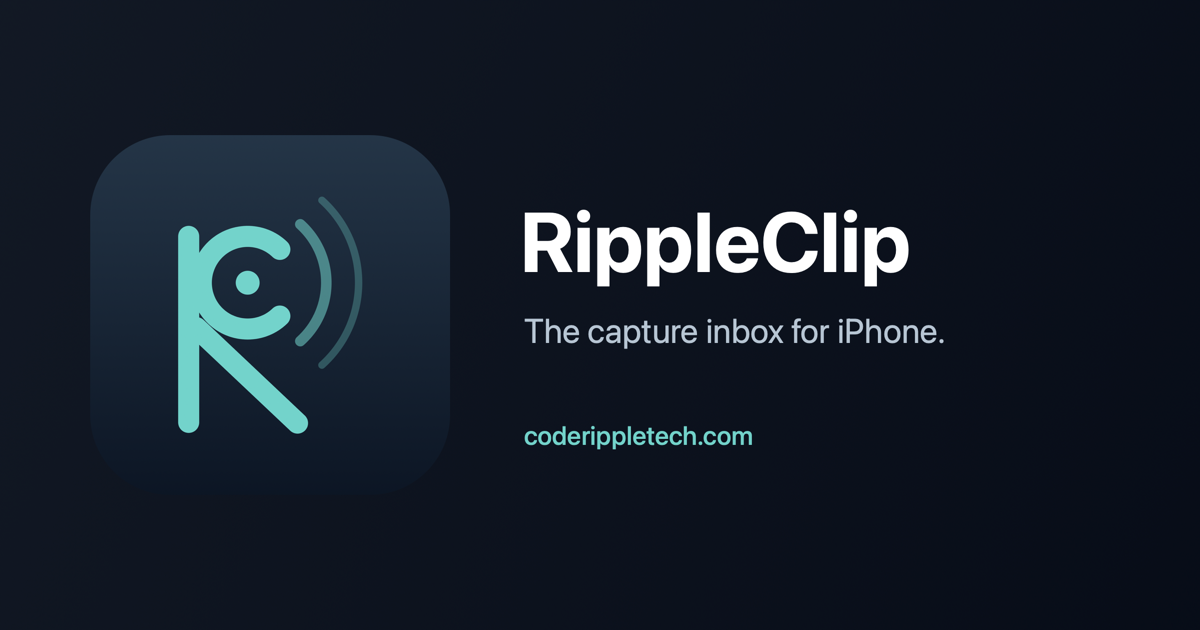
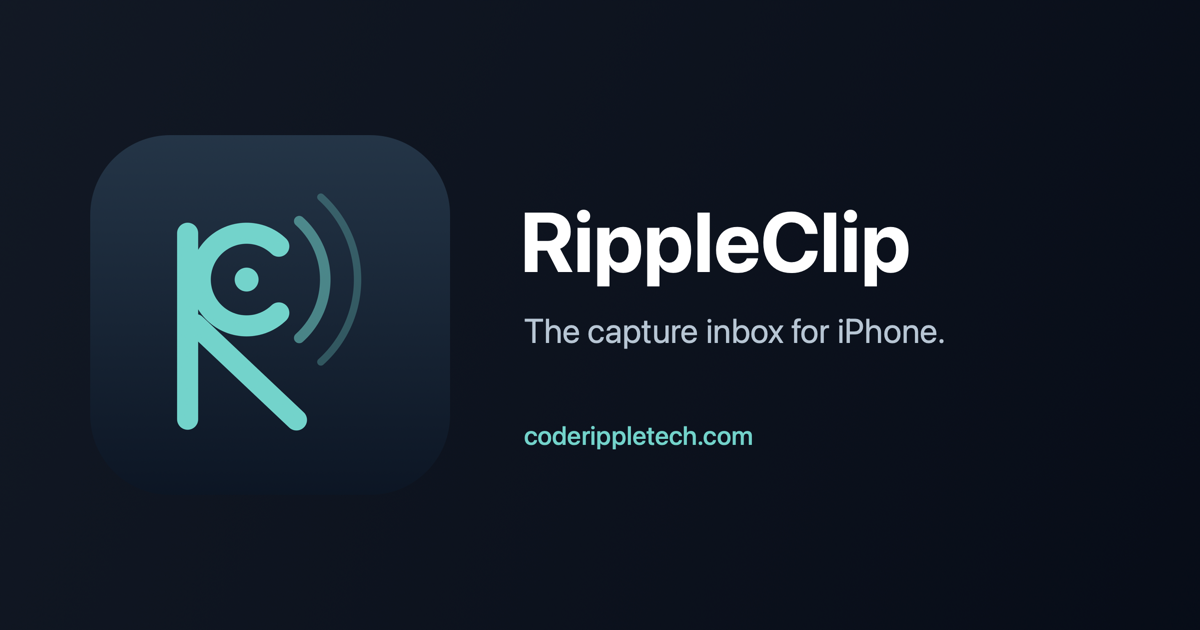
List RippleClip in the products dropdown and every footer, recentre the mark

diff --git a/contact/index.html b/contact/index.html
@@ -85,6 +85,7 @@
         <div class="nav-drop-menu">
           <a href="/rippleroot/"><img src="/assets/rippleroot-logo.png" alt=""><div>RippleRoot<small>Local-first dev workspace platform</small></div></a>
           <a href="/ripplesnap/"><img src="/assets/ripplesnap-logo.png" alt=""><div>RippleSnap<small>macOS window manager</small></div></a>
+          <a href="/rippleclip/"><img src="/assets/rippleclip-logo.png" alt=""><div>RippleClip<small>The capture inbox for iPhone</small></div></a>
           <a href="/ripplebug/"><img src="/assets/ripplebug-logo.png" alt=""><div>Ripplebug<small>Bug reporting, captured whole</small></div></a>
           <a href="/ripple-import/"><img src="/assets/logo.svg" alt=""><div>Ripple Import<small>CSV &amp; Excel → monday.com</small></div></a>
           <a href="/ripple-preview/"><img src="/assets/ripple-preview-logo.svg" alt=""><div>Ripple Preview<small>Real block previews for Umbraco</small></div></a>
@@ -161,6 +162,7 @@
         <h4>Products</h4>
         <a href="/rippleroot/">RippleRoot</a>
         <a href="/ripplesnap/">RippleSnap</a>
+        <a href="/rippleclip/">RippleClip</a>
         <a href="/ripplebug/">Ripplebug</a>
         <a href="/ripple-import/">Ripple Import</a>
         <a href="/ripple-preview/">Ripple Preview</a>

diff --git a/guide.html b/guide.html
@@ -168,6 +168,7 @@
         <h4>Products</h4>
         <a href="/rippleroot/">RippleRoot</a>
         <a href="/ripplesnap/">RippleSnap</a>
+        <a href="/rippleclip/">RippleClip</a>
         <a href="/ripplebug/">Ripplebug</a>
         <a href="/ripple-import/">Ripple Import</a>
         <a href="/ripple-preview/">Ripple Preview</a>

diff --git a/index.html b/index.html
@@ -549,6 +549,7 @@
         <h4>Products</h4>
         <a href="/rippleroot/">RippleRoot</a>
         <a href="/ripplesnap/">RippleSnap</a>
+        <a href="/rippleclip/">RippleClip</a>
         <a href="/ripplebug/">Ripplebug</a>
         <a href="/ripple-import/">Ripple Import</a>
         <a href="/ripple-preview/">Ripple Preview</a>

diff --git a/ripple-import/index.html b/ripple-import/index.html
@@ -259,6 +259,7 @@
         <h4>Products</h4>
         <a href="/rippleroot/">RippleRoot</a>
         <a href="/ripplesnap/">RippleSnap</a>
+        <a href="/rippleclip/">RippleClip</a>
         <a href="/ripplebug/">Ripplebug</a>
         <a href="/ripple-import/">Ripple Import</a>
         <a href="/ripple-preview/">Ripple Preview</a>

diff --git a/ripple-preview/index.html b/ripple-preview/index.html
@@ -182,6 +182,7 @@
         <h4>Products</h4>
         <a href="/rippleroot/">RippleRoot</a>
         <a href="/ripplesnap/">RippleSnap</a>
+        <a href="/rippleclip/">RippleClip</a>
         <a href="/ripplebug/">Ripplebug</a>
         <a href="/ripple-import/">Ripple Import</a>
         <a href="/ripple-preview/">Ripple Preview</a>

diff --git a/ripplebug/index.html b/ripplebug/index.html
@@ -404,6 +404,7 @@
         <h4>Products</h4>
         <a href="/rippleroot/">RippleRoot</a>
         <a href="/ripplesnap/">RippleSnap</a>
+        <a href="/rippleclip/">RippleClip</a>
         <a href="/ripplebug/">Ripplebug</a>
         <a href="/ripple-import/">Ripple Import</a>
         <a href="/ripple-preview/">Ripple Preview</a>

diff --git a/ripplebug/privacy/index.html b/ripplebug/privacy/index.html
@@ -103,6 +103,7 @@
         <h4>Products</h4>
         <a href="/rippleroot/">RippleRoot</a>
         <a href="/ripplesnap/">RippleSnap</a>
+        <a href="/rippleclip/">RippleClip</a>
         <a href="/ripplebug/">Ripplebug</a>
         <a href="/ripple-import/">Ripple Import</a>
         <a href="/ripple-preview/">Ripple Preview</a>

diff --git a/rippleroot/index.html b/rippleroot/index.html
@@ -637,6 +637,7 @@
         <h4>Products</h4>
         <a href="/rippleroot/">RippleRoot</a>
         <a href="/ripplesnap/">RippleSnap</a>
+        <a href="/rippleclip/">RippleClip</a>
         <a href="/ripplebug/">Ripplebug</a>
         <a href="/ripple-import/">Ripple Import</a>
         <a href="/ripple-preview/">Ripple Preview</a>

diff --git a/ripplesnap/index.html b/ripplesnap/index.html
@@ -418,6 +418,7 @@
         <h4>Products</h4>
         <a href="/rippleroot/">RippleRoot</a>
         <a href="/ripplesnap/">RippleSnap</a>
+        <a href="/rippleclip/">RippleClip</a>
         <a href="/ripplebug/">Ripplebug</a>
         <a href="/ripple-import/">Ripple Import</a>
         <a href="/ripple-preview/">Ripple Preview</a>

diff --git a/terms.html b/terms.html
@@ -107,6 +107,7 @@
         <h4>Products</h4>
         <a href="/rippleroot/">RippleRoot</a>
         <a href="/ripplesnap/">RippleSnap</a>
+        <a href="/rippleclip/">RippleClip</a>
         <a href="/ripplebug/">Ripplebug</a>
         <a href="/ripple-import/">Ripple Import</a>
         <a href="/ripple-preview/">Ripple Preview</a>

diff --git a/privacy.html b/privacy.html
@@ -94,6 +94,7 @@
         <h4>Products</h4>
         <a href="/rippleroot/">RippleRoot</a>
         <a href="/ripplesnap/">RippleSnap</a>
+        <a href="/rippleclip/">RippleClip</a>
         <a href="/ripplebug/">Ripplebug</a>
         <a href="/ripple-import/">Ripple Import</a>
         <a href="/ripple-preview/">Ripple Preview</a>
